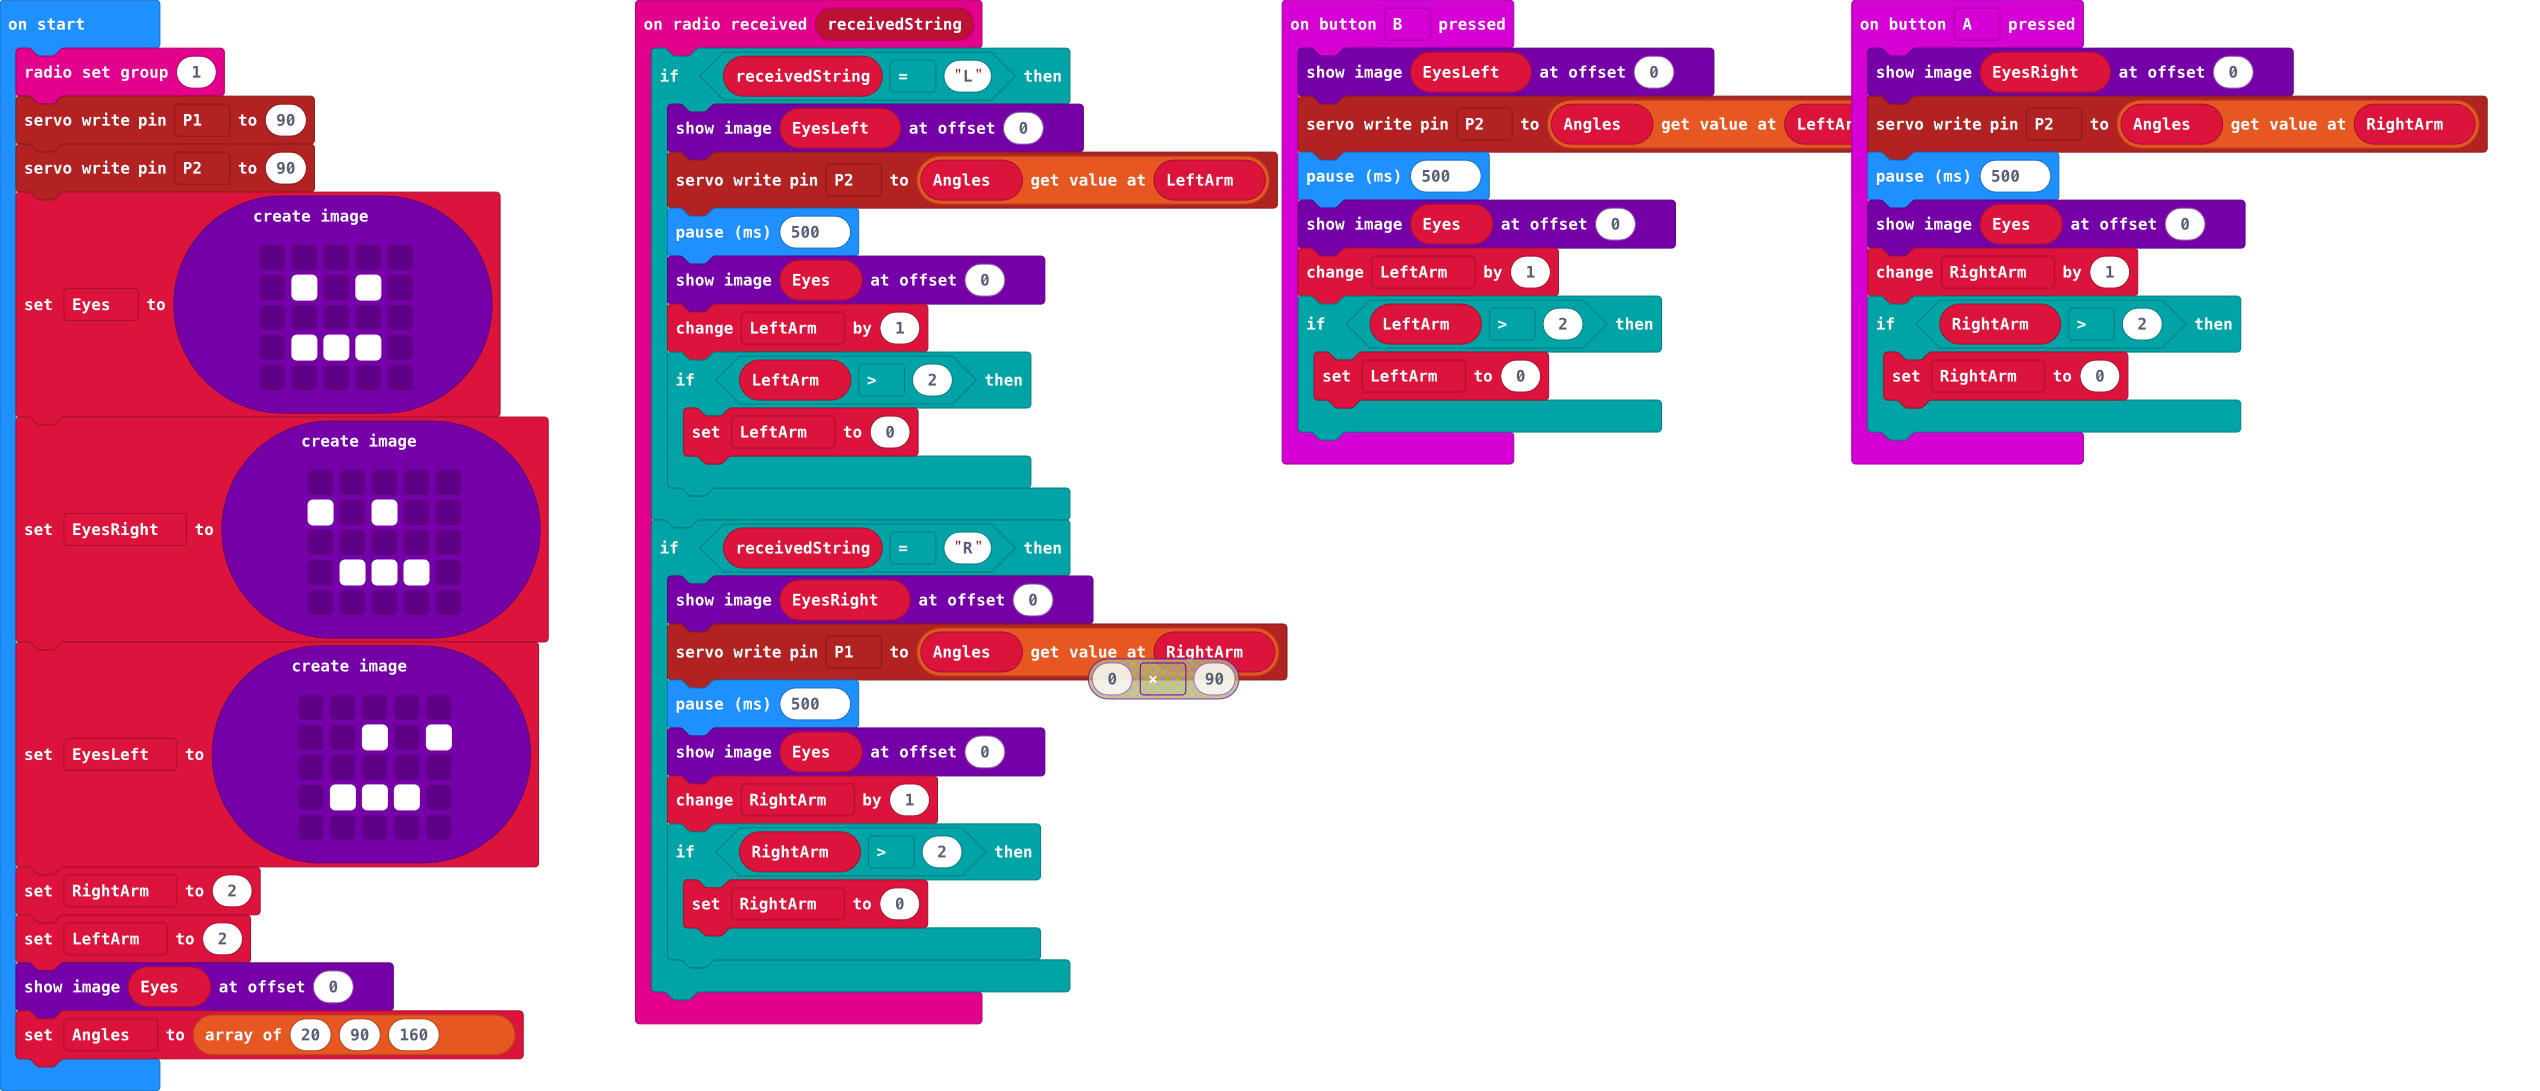
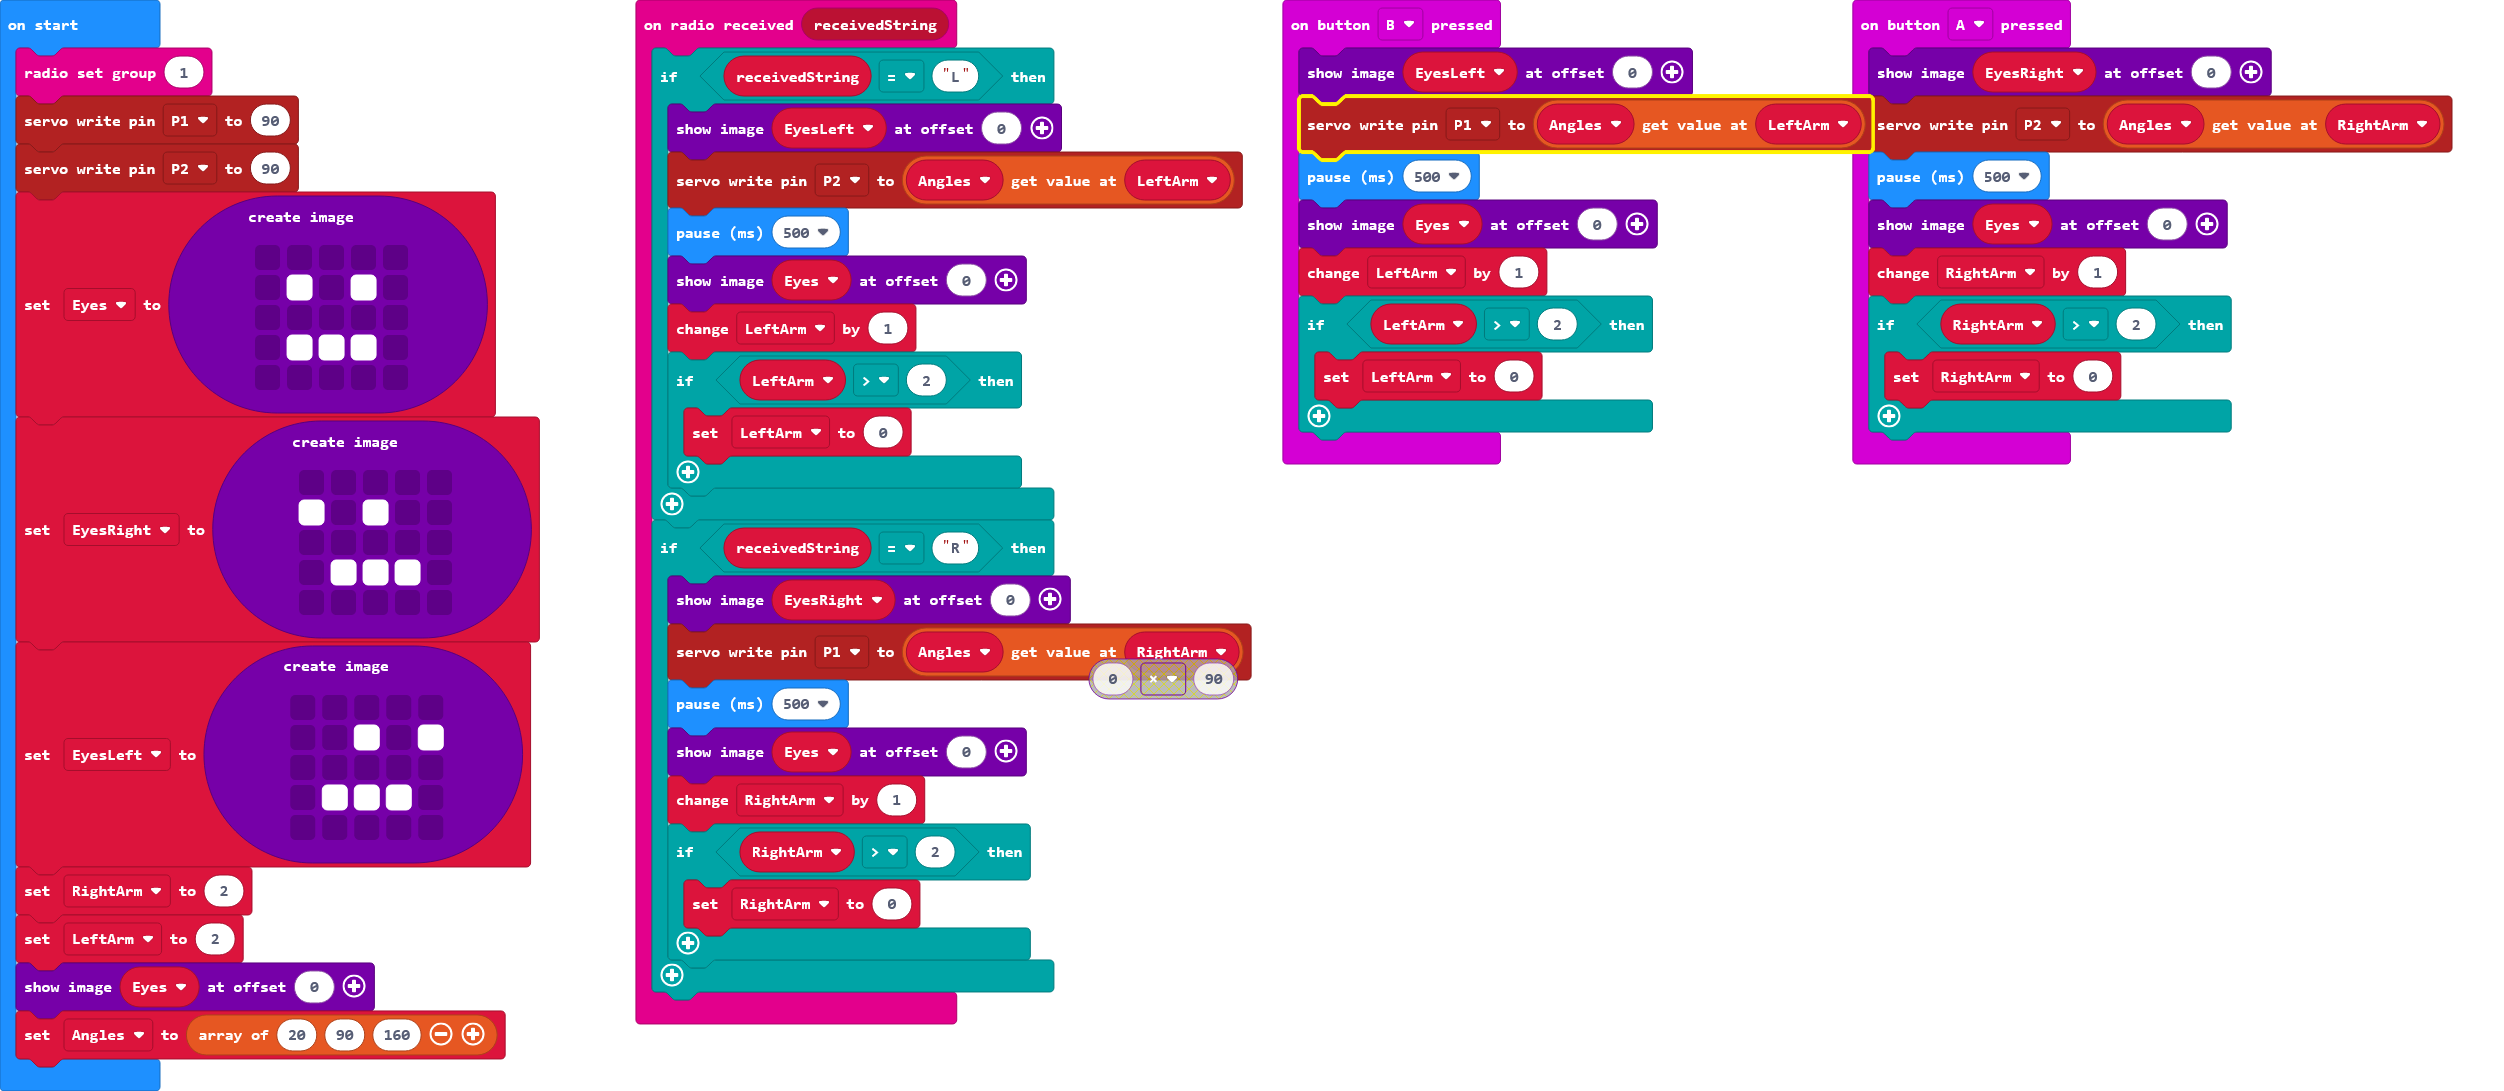
Update main.blocks, main.ts

diff --git a/main.ts b/main.ts
@@ -32,7 +32,7 @@ radio.onReceivedString(function (receivedString) {
 })
 input.onButtonPressed(Button.B, function () {
     EyesLeft.showImage(0)
-    pins.servoWritePin(AnalogPin.P2, Angles[LeftArm])
+    pins.servoWritePin(AnalogPin.P1, Angles[LeftArm])
     basic.pause(500)
     Eyes.showImage(0)
     LeftArm += 1
